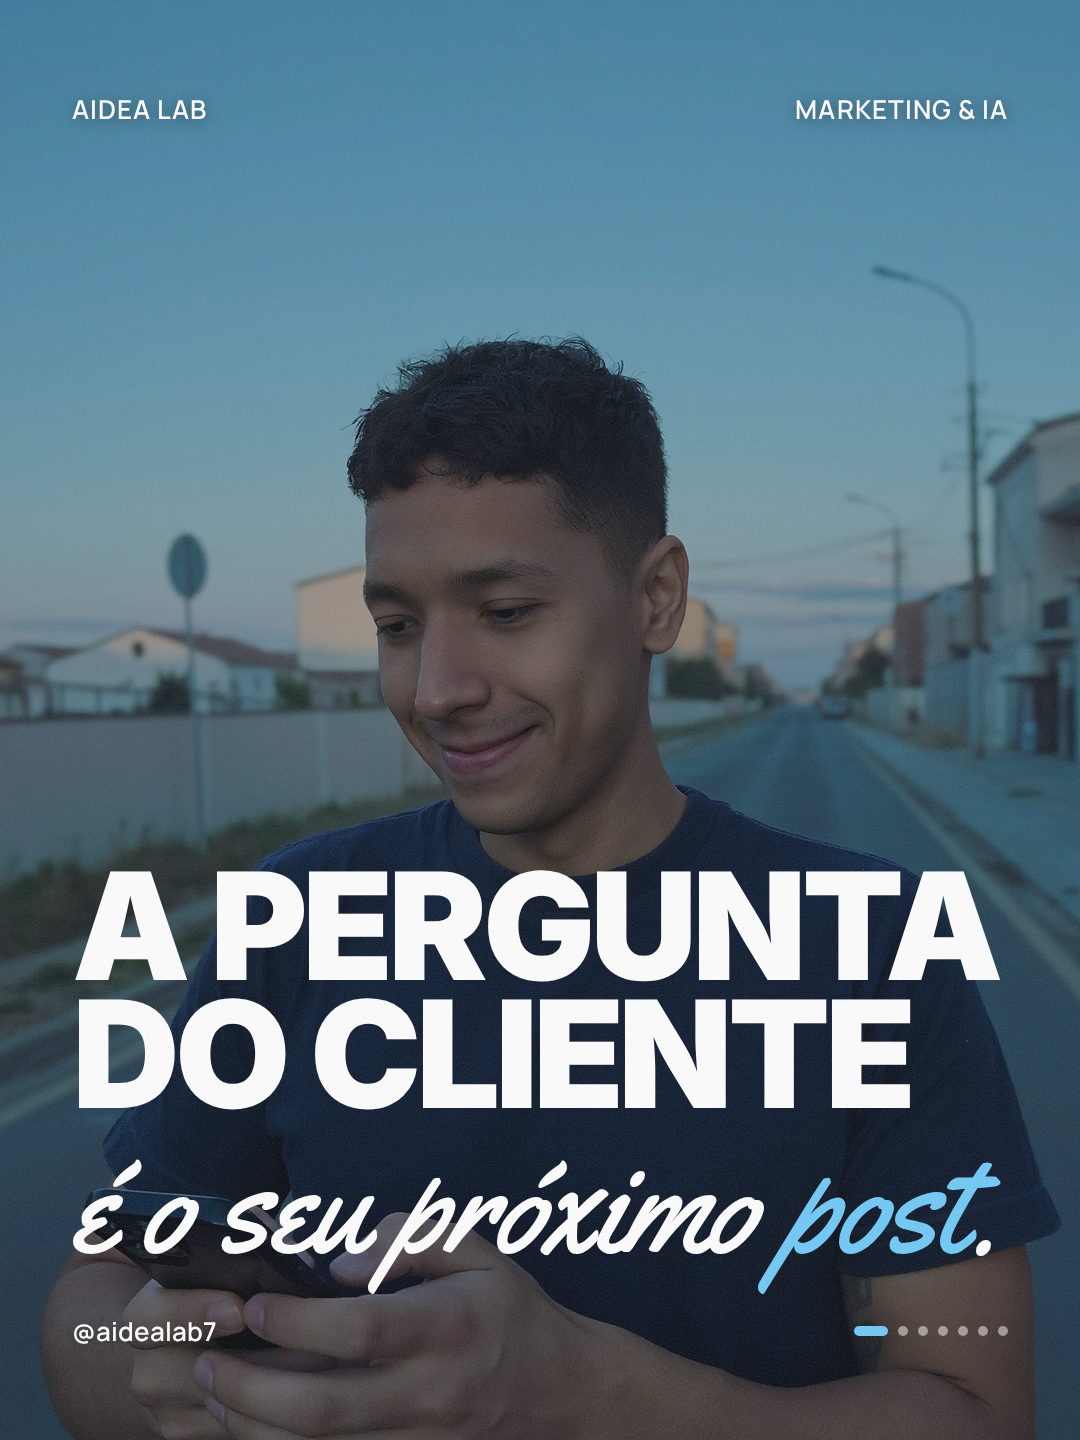
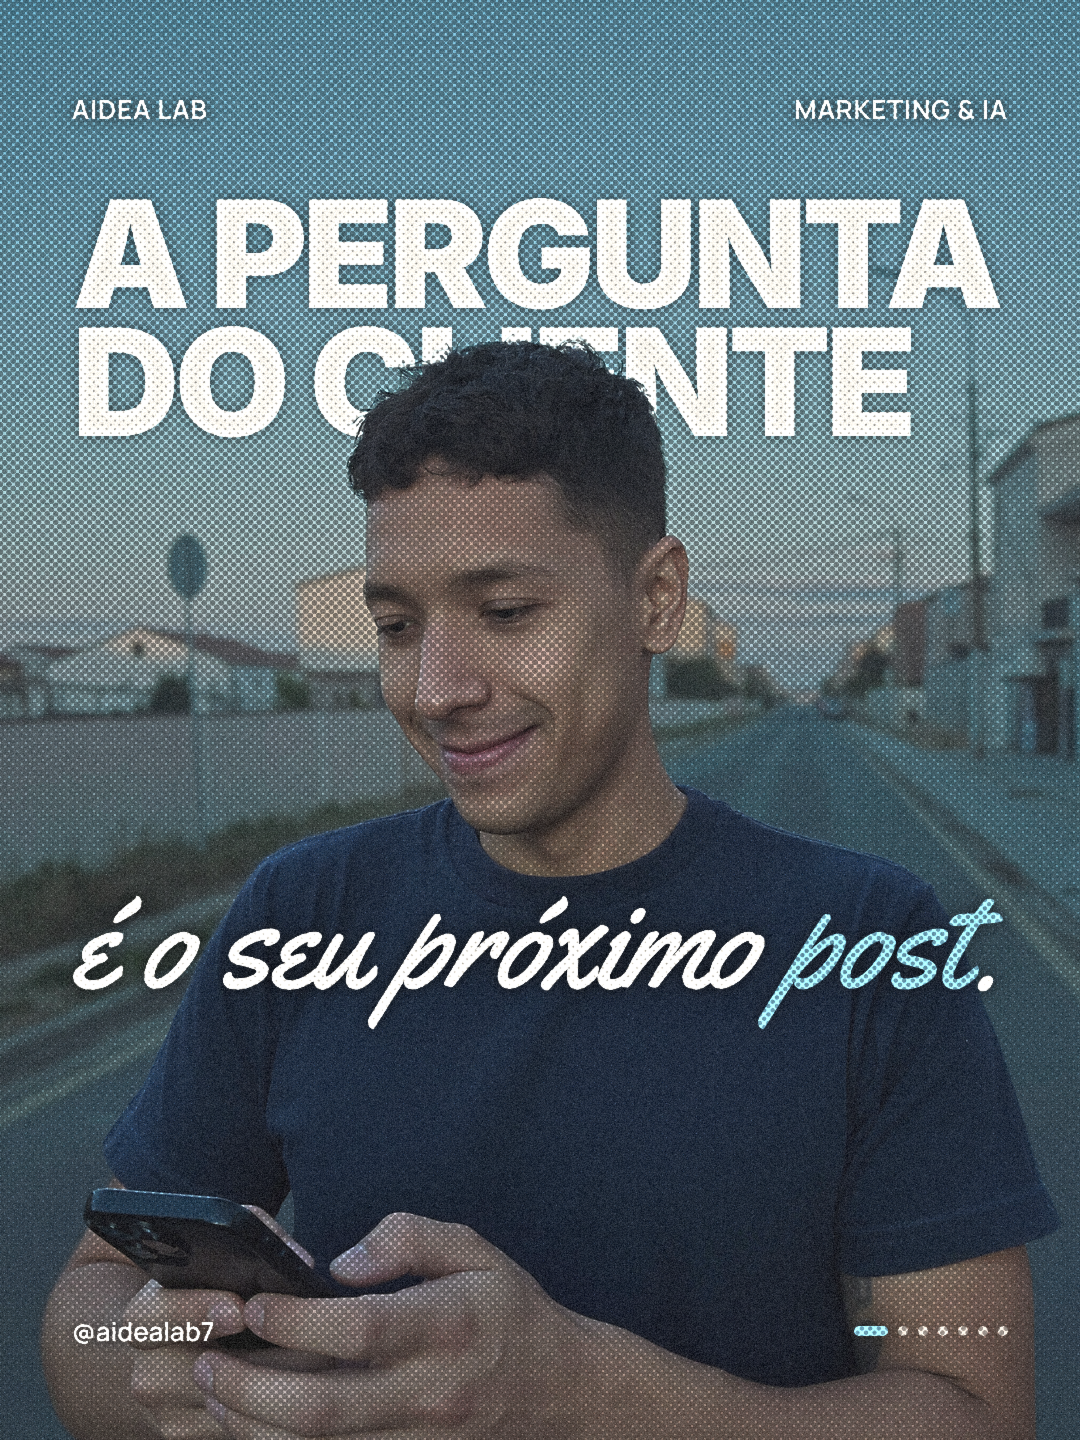
feat(motor): título atrás da cabeça, nunca atrás do corpo (capa de revista)
- compor.escolher: com recorte, cobertura pelo tronco <= 4% por palavra; pela cabeça
  <= 55% por palavra e <= 30% no total; bônus forte para 8-30% atrás da cabeça;
  alinhar "centro" e passo de 30u; texto_frente sai quando o layout é automático
- bloco manual com recorte é conferido: se o corpo cobriria o display, sai o recorte
- prompt da rotina: capa/CTA com folga acima da cabeça (topo em ~1/3 do quadro)
- pergunta-do-cliente-vira-post: capa recomposta com o título atrás da cabeça

Claude-Session: https://claude.ai/code/session_012KyAE6tAMb32gBy6Q61w6r

diff --git a/motor/compor.py b/motor/compor.py
@@ -15,8 +15,9 @@ Para cada slide 1, 2 e último com `imagem`:
 4. Escolhe `bloco` {y, alinhar, largura}: y em 200..1000 (passo 100) x esquerda/direita x largura 936/720/560.
    Rejeita: bloco que toca cabeça/rosto (+24u), fora de 190..1280 (meta em y<150, rodapé em y>1318), display com mais de 40% sob o
    sujeito (precisa ficar >= 60% visível). Pontua: agitação da imagem (Sobel médio na área visível do bloco), display
-   encolhido, e, sem recorte, sobreposição com o sujeito. Com recorte, sobrepor 10-35% do display ganha bônus
-   (profundidade). No T4 o bloco inclui a pill (+200u).
+   encolhido, e, sem recorte, sobreposição com o sujeito. Com recorte, o display só passa atrás da CABEÇA (nunca do
+   tronco/costas) e título 8-30% atrás da cabeça ganha bônus forte (capa de revista); alinhar "centro" entra como opção e
+   `texto_frente` sai. No T4 o bloco inclui a pill (+200u).
 Slides só de texto: `textura: "led"` nos de `lista` e no de conclusão (último texto antes do CTA).
 Guarda carrossel.json.bak uma vez (o original; re-rodar parte dele). Ajustes manuais que sobrevivem a re-rodar:
 `sujeito.rostos_manual` (caixas extras), `sujeito.rostos_so_manual: true` (ignora o Haar), `sujeito.cabeca_manual` (caixa da cabeça) e `bloco.manual: true` (bloco mantido).
@@ -142,10 +143,21 @@ def estimar(s, larg, fs0):
     return {"fs": fs, "linhas": linhas, "emo": eg, "h": y, "frente0": f0, "w": max([w for _, w, _, _ in linhas] + ([eg[0]] if eg else []))}
 
 
-def escolher(s, template, fs0, mask, sob, cab, rostos, recorte, propr=()):
+def escolher(s, template, fs0, mask, sob, cab, rostos, recorte, propr=(), fixo=None):
+    """Com recorte, o display só pode passar atrás da CABEÇA (capa de revista), nunca atrás do tronco/costas:
+    cobertura pelo tronco <= 4% por palavra; pela cabeça <= 55% por palavra e <= 30% no total. Título atrás da cabeça
+    (8-30% coberto) ganha bônus forte: é o layout preferido sempre que couber. `fixo` = bloco manual {y, alinhar, largura}:
+    só confere esse bloco (None = não cabe)."""
+    mcab = np.zeros_like(mask)
+    if recorte and cab:
+        mcab[max(0, cab[1]):min(H, cab[3]), max(0, cab[0]):min(W, cab[2])] = True
+        mcab &= mask
+    mtor = mask & ~mcab
     ii_s = np.pad(np.cumsum(np.cumsum(sob * (~mask if recorte else 1), 0), 1), ((1, 0), (1, 0)))
     ii_c = np.pad(np.cumsum(np.cumsum((~mask if recorte else np.ones_like(mask)).astype(float), 0), 1), ((1, 0), (1, 0)))
     ii_m = np.pad(np.cumsum(np.cumsum(mask.astype(float), 0), 1), ((1, 0), (1, 0)))
+    ii_h = np.pad(np.cumsum(np.cumsum(mcab.astype(float), 0), 1), ((1, 0), (1, 0)))
+    ii_t = np.pad(np.cumsum(np.cumsum(mtor.astype(float), 0), 1), ((1, 0), (1, 0)))
 
     def soma(ii, b):
         x0, y0, x1, y1 = [int(round(v)) for v in b]
@@ -158,14 +170,15 @@ def escolher(s, template, fs0, mask, sob, cab, rostos, recorte, propr=()):
     # display atrás do sujeito pode passar pela cabeça do recorte (a cabeça fica por cima); texto à frente (emocao/pill) não:
     # o JS desloca, então aqui é só penalidade. Sem recorte, o bloco inteiro evita cabeça e rostos.
     melhor = None
-    for larg in (936, 720, 560):
+    largs = (fixo.get("largura", 936),) if fixo else (936, 720, 560)
+    for larg in largs:
         g = estimar(s, larg, fs0)
         fs = g["fs"]
-        for y in range(200, 1001, 100):
-            for al in ("esquerda", "direita"):
+        for y in ((fixo["y"],) if fixo else range(200 if not recorte else 190, 1001, 100 if not recorte else 30)):
+            for al in ((fixo.get("alinhar", "esquerda"),) if fixo else ("esquerda", "direita") + (("centro",) if recorte else ())):
                 if y < 190 or y + g["h"] > 1280:
                     continue
-                X = (lambda w: 72) if al == "esquerda" else (lambda w: 1008 - w)
+                X = {"esquerda": lambda w: 72, "direita": lambda w: 1008 - w, "centro": lambda w: (1080 - w) / 2}[al]
                 rd = []  # retângulos do display (por linha) e das palavras
                 for txt, w, y0, y1 in g["linhas"]:
                     rd.append(([X(w), y + y0, X(w) + w, y + y1], txt))
@@ -173,7 +186,8 @@ def escolher(s, template, fs0, mask, sob, cab, rostos, recorte, propr=()):
                 if g["emo"]:
                     w, y0, y1 = g["emo"]; fr.append([X(w), y + y0, X(w) + w, y + y1])
                 if g["h"] > g["frente0"]:
-                    fr.append([72 if al == "esquerda" else 1008 - 400, y + g["frente0"], (72 if al == "esquerda" else 1008) + (400 if al == "esquerda" else 0), y + g["h"]])
+                    x0 = {"esquerda": 72, "direita": 1008 - 400, "centro": 340}[al]
+                    fr.append([x0, y + g["frente0"], x0 + 400, y + g["h"]])
                 if any(cruza(b, f, 24) for b, _ in rd for f in rostos + ([] if recorte else list(propr) + ([cab] if cab else []))):
                     continue
                 pen = 0.0
@@ -182,29 +196,30 @@ def escolher(s, template, fs0, mask, sob, cab, rostos, recorte, propr=()):
                         pen += 0.6
                     else:
                         continue
-                # visibilidade do display atrás do sujeito: por palavra (nenhuma palavra > 12% coberta)
-                cov_max, cov_tot, atot = 0.0, 0.0, 0.0
+                # visibilidade do display atrás do sujeito, por palavra (altura das maiúsculas)
+                cov_max, cov_tot, atot, tor_max, cab_max, cab_tot = 0.0, 0.0, 0.0, 0.0, 0.0, 0.0
                 for b, txt in rd:
                     lw = b[2] - b[0]
                     pos = 0
                     for palavra in txt.split(" "):
                         a = b[0] + lw * pos / max(len(txt), 1)
                         z = b[0] + lw * (pos + len(palavra)) / max(len(txt), 1)
-                        wb = [a, b[1] + 0.05 * (b[3] - b[1]), z, b[3] - 0.15 * (b[3] - b[1])]  # altura das maiúsculas
-                        c = soma(ii_m, wb) / max(area(wb), 1)
-                        cov_max = max(cov_max, c)
-                        cov_tot += soma(ii_m, wb); atot += area(wb)
+                        wb = [a, b[1] + 0.05 * (b[3] - b[1]), z, b[3] - 0.15 * (b[3] - b[1])]
+                        aw = max(area(wb), 1)
+                        cov_max = max(cov_max, soma(ii_m, wb) / aw)
+                        tor_max = max(tor_max, soma(ii_t, wb) / aw)
+                        cab_max = max(cab_max, soma(ii_h, wb) / aw)
+                        cov_tot += soma(ii_m, wb); cab_tot += soma(ii_h, wb); atot += area(wb)
                         pos += len(palavra) + 1
-                cov = cov_tot / max(atot, 1)
-                if recorte and (cov_max > 0.12 or cov > 0.25):
+                cov, cov_cab = cov_tot / max(atot, 1), cab_tot / max(atot, 1)
+                if recorte and (tor_max > 0.04 or cab_max > 0.55 or cov > 0.30):
                     continue
-                bb = [72 if al == "esquerda" else 1008 - g["w"], y, (72 if al == "esquerda" else 1008) , y + g["h"]]
-                bb = [bb[0], y, bb[0] + g["w"], y + g["h"]]
+                bb = [X(g["w"]), y, X(g["w"]) + g["w"], y + g["h"]]
                 vis = soma(ii_c, bb)
                 busy = (soma(ii_s, bb) / max(vis, 1)) / 40.0
                 sc = busy + pen + 0.8 * (1 - fs / fs0)
                 if recorte:
-                    sc -= 0.15 * min(cov, 0.35) / 0.35 if cov >= 0.10 else 0
+                    sc -= 0.6 if 0.08 <= cov_cab <= 0.30 else 0  # atrás da cabeça: layout preferido
                 else:
                     sc += 1.5 * soma(ii_m, bb) / max(area(bb), 1)
                 sc += 0.02 * (al == "direita") + 0.0003 * y
@@ -310,6 +325,10 @@ def compor(jp, a):
 
         cab, rostos, propr = classificar(recorte)
         r = None if manual_bloco else escolher(s, t0, fs0, mask, sob, cab, rostos, recorte, propr)
+        if recorte and manual_bloco and not escolher(s, t0, fs0, mask, sob, cab, rostos, True, propr, fixo=at["bloco"]):
+            recorte, motivo = False, "bloco manual deixaria o display atrás do corpo"
+            s.pop("recorte", None)
+            cab, rostos, propr = classificar(False)
         if recorte and not manual_bloco and not r:
             # sem lugar para o display atrás do sujeito (cabeça/corpo ocupam o quadro): foto inteira + texto, sem recorte
             recorte, motivo = False, "sem espaço para o display atrás do sujeito (palavras ficariam cobertas)"
@@ -340,6 +359,8 @@ def compor(jp, a):
             dec = f"bloco manual {s['bloco']}"
         elif r:
             s["bloco"] = {"y": r[1], "alinhar": r[2], "largura": r[3]}
+            if recorte:
+                s.pop("texto_frente", None)  # o layout já põe o display atrás só da cabeça
             dec = f"bloco y={r[1]} {r[2]} larg={r[3]} (agitação {r[4]}, display sob sujeito {r[5]:.0%}, fonte ~{r[6]})"
         else:
             s.pop("bloco", None)

diff --git a/agente aidealab/clientes/aidealab/design-system/templates/templates.md b/agente aidealab/clientes/aidealab/design-system/templates/templates.md
@@ -59,5 +59,6 @@ quanto for preciso.
 ## Texturas dos slides de texto (2026-10-05)
 
 - Slide 3: `"textura": "grain"`, só grão forte sobre o fundo liso, sem gradiente nem brilho de cor (nada de spotlight ciano ou rosa). O `compor.py` marca sozinho.
+- Hook e CTA com personagem: título ATRÁS DA CABEÇA (capa de revista), nunca atrás do tronco/costas; o `compor.py` escolhe sozinho sempre que houver folga acima da cabeça (topo da cabeça em ~1/3 do quadro).
 - Hook (slide 1) e CTA (último): textura halftone de impresso (`motor/filtro_halftone.py`), sempre. O `render.py` aplica sozinho pelo `"halftone": ["hook", "cta"]` do `tema.json`; o `sync_fila_drive.py` aplica nos aprovados que entram na fila (marca `"halftone": true` no metadata).
 - Demais slides de lista e o de conclusão: `"textura": "led"`.
